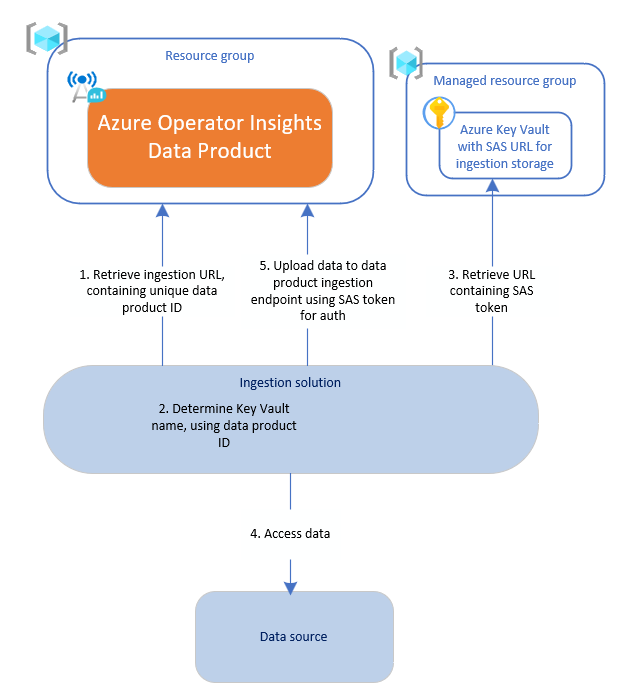
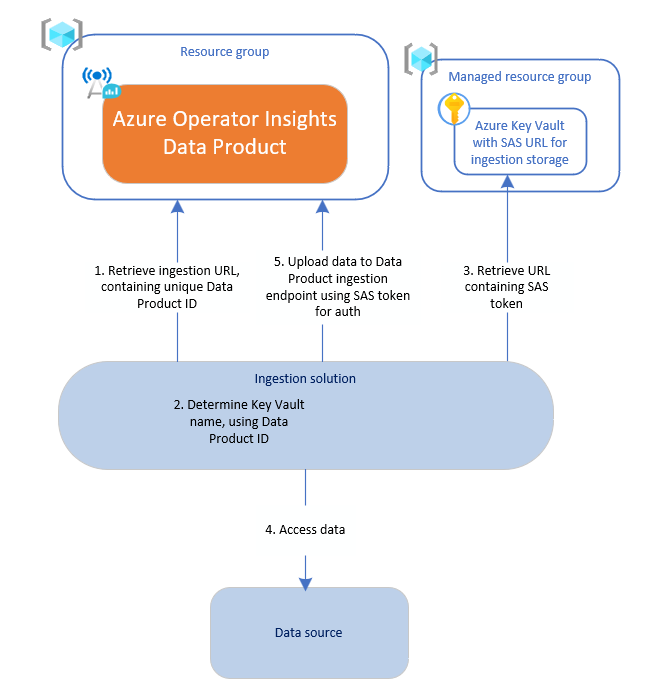
Capitalise Data Product

diff --git a/samples/end-to-end/python-aoi-ingestion.py b/samples/end-to-end/python-aoi-ingestion.py
@@ -2,7 +2,7 @@
 # Licensed under the MIT License.
 
 # This is an example Python script that demonstrates how to upload data to an Azure Operator Insights
-# data product using the Azure SDK.
+# Data Product using the Azure SDK.
 # https://learn.microsoft.com/en-us/azure/developer/python/sdk/azure-sdk-overview
 # To use the script, fill in the variables at the top of the script and run it from the command line.
 # e.g `python3.9 python-aoi-ingestion.py`
@@ -26,7 +26,7 @@ from azure.mgmt.networkanalytics import NetworkAnalyticsMgmtClient
 
 
 def main():
-    # Set variables for resource group, data product name, data type, and the local filepath of the files to upload.
+    # Set variables for resource group, Data Product name, data type, and the local filepath of the files to upload.
     # Replace these values with your own.
     resource_group = "myResourceGroup"
     data_product_name = "myDataProduct"
@@ -43,14 +43,14 @@ def main():
         resource_group, data_product_name
     ).properties.consumption_endpoints.ingestion_url
 
-    # Break out the data product ID from the ingestion URL.
+    # Break out the Data Product ID from the ingestion URL.
     # If the ingestion URL is "https://aoiingestiondp123abc.blob.core.windows.net", then the data
     # product ID is "dp123abc".
     data_product_id = ingestion_url.removeprefix("https://aoiingestion").removesuffix(
         ".blob.core.windows.net"
     )
 
-    # Use the data product ID to generate the URL of the managed key vault
+    # Use the Data Product ID to generate the URL of the managed key vault
     key_vault_url = f"https://aoi-{data_product_id}-kv.vault.azure.net/"
 
     # Fetch the SAS URL from the key vault using the Key Vault Secret client library, and extract the

diff --git a/INGESTION-OVERVIEW.md b/INGESTION-OVERVIEW.md
@@ -1,10 +1,10 @@
-# How to ingest data into an Azure Operator Insights data product
+# How to ingest data into an Azure Operator Insights Data Product
 
-Data ingestion is a crucial process for any data product. Whether you’re dealing with real-time streams or batch uploads, a well-designed ingestion solution ensures smooth data flow. Understanding the steps involved in designing an ingestion solution will allow you to easily adapt the code samples in this repository, or build your own ingestion solution from scratch.
+Data ingestion is a crucial process for any Data Product. Whether you’re dealing with real-time streams or batch uploads, a well-designed ingestion solution ensures smooth data flow. Understanding the steps involved in designing an ingestion solution will allow you to easily adapt the code samples in this repository, or build your own ingestion solution from scratch.
 
 In this article:
 
-- [Steps to implement ingestion for a data product](#steps-to-implement-ingestion-for-a-data-product)
+- [Steps to implement ingestion for a Data Product](#steps-to-implement-ingestion-for-a-data-product)
   - [Plan how to access the source data](#plan-how-to-access-the-source-data)
   - [Determine requirements for uploaded data](#determine-requirements-for-uploaded-data)
   - [Implement the upload code](#implement-the-upload-code)
@@ -13,7 +13,7 @@ In this article:
   - [Implement extra function](#implement-extra-function)
 - [Hints and tips](#hints-and-tips)
 
-## Steps to implement ingestion for a data product
+## Steps to implement ingestion for a Data Product
 
 ### Plan how to access the source data
 
@@ -29,13 +29,13 @@ Consider the following:
 
 ### Determine requirements for uploaded data
 
-For all data products, you must upload data to the correct Azure Storage Account container for the associated data type. The container name is usually the same as the data type name.
+For all Data Products, you must upload data to the correct Azure Storage Account container for the associated data type. The container name is usually the same as the data type name.
 
-In addition, depending on the data product, there might be specific requirements on the filepath or format of the data that you upload.
+In addition, depending on the Data Product, there might be specific requirements on the filepath or format of the data that you upload.
 
-Check the documentation for your data product to find out which container names to use, and whether any additional requirements apply to you.
+Check the documentation for your Data Product to find out which container names to use, and whether any additional requirements apply to you.
 
-If the ingestion solution does not meet these requirements, data won't be processed correctly by the data product.
+If the ingestion solution does not meet these requirements, data won't be processed correctly by the Data Product.
 
 ### Implement the upload code
 
@@ -45,30 +45,30 @@ Now you can write your end-to-end ingestion solution.
 
 Ingestion solutions perform 5 main steps:
 
-1. **Obtain the data product ingestion URL:** Query the data product resource to obtain the ingestion URL, which contains the unique ID for the data product. The URL format is `https://aoiingestiondp123abc.blob.core.windows.net` where `dp123abc` represents the data product ID.
-2. **Identify the managed Key Vault:** Determine the name of the managed Key Vault associated with the data product. It follows the pattern `aoi-<dataProductId>-kv`, where `<dataProductId>` corresponds to the ID from step 1.
-3. **Retrieve the ingestion SAS URL:** Query the Key Vault identified in step 2 to get the ingestion SAS URL for the data product. This URL is the data product's ingestion URL, with a SAS token appended. For example, `https://aoiingestiondp123abc.blob.core.windows.net?sv=2021-12-02&ss=b&srt=co&spr=https,http&st=2024-02-16T20%3A18%3A02Z&se=2024-05-16T20%3A17%3A57Z&sp=rwdl&sig=<REDACTED>`
+1. **Obtain the Data Product ingestion URL:** Query the Data Product resource to obtain the ingestion URL, which contains the unique ID for the Data Product. The URL format is `https://aoiingestiondp123abc.blob.core.windows.net` where `dp123abc` represents the Data Product ID.
+2. **Identify the managed Key Vault:** Determine the name of the managed Key Vault associated with the Data Product. It follows the pattern `aoi-<dataProductId>-kv`, where `<dataProductId>` corresponds to the ID from step 1.
+3. **Retrieve the ingestion SAS URL:** Query the Key Vault identified in step 2 to get the ingestion SAS URL for the Data Product. This URL is the Data Product's ingestion URL, with a SAS token appended. For example, `https://aoiingestiondp123abc.blob.core.windows.net?sv=2021-12-02&ss=b&srt=co&spr=https,http&st=2024-02-16T20%3A18%3A02Z&se=2024-05-16T20%3A17%3A57Z&sp=rwdl&sig=<REDACTED>`
 4. **Read from the data source:** Collect the data to upload, as you planned in [Plan how to access the source data](#plan-how-to-access-the-source-data).
-5. **Upload data to the ingestion endpoint:** Use the SAS token obtained in step 3 to authenticate. The ingestion endpoint is an Azure Storage Account, so most methods of uploading data to an Azure Storage Account will also work with the data product ingestion endpoint. Make sure to upload the data to the correct Azure Storage Account container for the data type.
+5. **Upload data to the ingestion endpoint:** Use the SAS token obtained in step 3 to authenticate. The ingestion endpoint is an Azure Storage Account, so most methods of uploading data to an Azure Storage Account will also work with the Data Product ingestion endpoint. Make sure to upload the data to the correct Azure Storage Account container for the data type.
 
 Steps 1-3 are setup steps which can be carried out once, then the SAS token can be reused for as long as it is valid.
 
 ### Handle SAS URL rotation
 
-The SAS token can be used until it is revoked or its expiry date has passed. When the SAS token is rotated, the data product automatically updates the value of the `input-storage-sas` secret in the managed Key Vault.
+The SAS token can be used until it is revoked or its expiry date has passed. When the SAS token is rotated, the Data Product automatically updates the value of the `input-storage-sas` secret in the managed Key Vault.
 
 To ensure uninterrupted service, your ingestion solution should frequently retrieve the input-storage-sas secret from the managed Key Vault. This ensures it always uses the latest SAS token. For example, fetch the secret at the start of scheduled upload runs or hourly for continuous ingestion solutions. If an authentication error occurs, re-fetch the secret, as it may indicate the old SAS token has been revoked.
 
 ### Test the ingestion solution
 
-Use your ingestion solution to upload sample data to the data product, and identify and fix any errors.
+Use your ingestion solution to upload sample data to the Data Product, and identify and fix any errors.
 
 Use [Data product resource logs](https://learn.microsoft.com/en-us/azure/operator-insights/monitor-operator-insights#resource-logs-for-data-products-overview-collection-and-analysis) to look for errors uploading the data to the ingestion storage account, and errors processing the data after it is uploaded.
 
-- Logs related to upload of data to the data product are in the `AOIStorage` table, with categories `Ingestion` and `IngestionDelete`.
+- Logs related to upload of data to the Data Product are in the `AOIStorage` table, with categories `Ingestion` and `IngestionDelete`.
 - Logs related to processing of uploaded data are in the `AOIDigestion` table, with category `Digestion`.
 
-Once data has been successfully uploaded and processed, you can [explore the data using the data product's consumption URL](https://learn.microsoft.com/en-us/azure/operator-insights/data-query).
+Once data has been successfully uploaded and processed, you can [explore the data using the Data Product's consumption URL](https://learn.microsoft.com/en-us/azure/operator-insights/data-query).
 
 ### Implement extra function
 
@@ -77,18 +77,18 @@ Once your basic ingestion solution is working, you can implement extra function 
 For example:
 
 - Add logging and metrics so you can monitor the performance of the ingestion solution and debug issues.
-- Add retries in case of transient connection errors between the ingestion solution and the data source, or the data product.
-- Optionally, filter data before uploading to the data product.
-- Optionally, transform data before uploading to the data product, e.g. to remove personally identifiable information (PII).
+- Add retries in case of transient connection errors between the ingestion solution and the data source, or the Data Product.
+- Optionally, filter data before uploading to the Data Product.
+- Optionally, transform data before uploading to the Data Product, e.g. to remove personally identifiable information (PII).
 
 ## Hints and tips
 
-- **File modification:** Avoid modifying or moving uploaded files (blobs) after they have been uploaded to the data product. The data product processes the initial version of the blob on upload, and changes in subsequent versions might not be processed, leading to missing data. If you move or rename a blob post-upload, it's treated as a new blob, which can result in duplicated data.
+- **File modification:** Avoid modifying or moving uploaded files (blobs) after they have been uploaded to the Data Product. The Data Product processes the initial version of the blob on upload, and changes in subsequent versions might not be processed, leading to missing data. If you move or rename a blob post-upload, it's treated as a new blob, which can result in duplicated data.
 
 - **Directory depth:** When uploading data files, ensure they are at least two directories deep within the ingestion storage account. For example, if you're uploading a file called `mydata.csv`, place it in a path like `{directory-name}/{sub-directory-name}/mydata.csv`.
 
 - **Blob storage vs data lake ingestion endpoints:**
-  - You have two options for the data product ingestion URL: one for the blob storage endpoint (e.g. `https://aoiingestiondp123abc.blob.core.windows.net`), and one for the data lake storage endpoint (e.g. `https://aoiingestiondp123abc.dfs.core.windows.net`).
+  - You have two options for the Data Product ingestion URL: one for the blob storage endpoint (e.g. `https://aoiingestiondp123abc.blob.core.windows.net`), and one for the data lake storage endpoint (e.g. `https://aoiingestiondp123abc.dfs.core.windows.net`).
   - Choose the endpoint that best suits your ingestion method. For example, AzCopy can use the blob storage endpoint, but Azure Databricks requires the data lake endpoint. To obtain the data lake endpoint URL, simply replace `blob` in the ingestion URL with `dfs`.
   - Use the appropriate API calls for the endpoint you have chosen:
     - [Azure Blob Storage REST API](https://learn.microsoft.com/en-us/rest/api/storageservices/blob-service-rest-api).

diff --git a/README.md b/README.md
@@ -1,15 +1,15 @@
 # Azure Operator Insights data ingestion samples
 
-Code samples and guidance demonstrating how to ingest data into an [Azure Operator Insights data product](https://learn.microsoft.com/en-us/azure/operator-insights/).
+Code samples and guidance demonstrating how to ingest data into an [Azure Operator Insights Data Product](https://learn.microsoft.com/en-us/azure/operator-insights/).
 
-Azure Operator Insights offers a range of options for ingesting data into data products:
+Azure Operator Insights offers a range of options for ingesting data into Data Products:
 
-- The [Azure Operator Insights Ingestion Agent](https://learn.microsoft.com/en-us/azure/operator-insights/ingestion-agent-overview), which runs on-prem or on an Azure VM. The agent can consume data from different sources and upload the data to an Azure Operator Insights data product. The agent currently supports ingestion by:
+- The [Azure Operator Insights Ingestion Agent](https://learn.microsoft.com/en-us/azure/operator-insights/ingestion-agent-overview), which runs on-prem or on an Azure VM. The agent can consume data from different sources and upload the data to an Azure Operator Insights Data Product. The agent currently supports ingestion by:
   - Pulling data from an SFTP server
   - Terminating a TCP stream of enhanced data records (EDRs) from the Affirmed MCC.
-- Other Azure services and tools. A variety of tools can be used to upload data to an Azure Operator Insights data product. For example:
+- Other Azure services and tools. A variety of tools can be used to upload data to an Azure Operator Insights Data Product. For example:
   - AzCopy is a simple tool for uploading batches of data from a variety of local or cloud storage locations.
-  - Azure Data Factory allows you to define more complicated pipelines to process the data before uploading to the data product.  (\<TODO insert Learn link when published>)
+  - Azure Data Factory allows you to define more complicated pipelines to process the data before uploading to the Data Product.  (\<TODO insert Learn link when published>)
 - Build your own ingestion, using the code samples in this repository as a starting point.
 
 ## Getting Started
@@ -22,8 +22,8 @@ For most of the samples, you need:
 
 - An Azure Operator Insights Data Product
 - A Microsoft Entra identity to use to run the sample. The identity must have the following roles:
-  - _Reader_ role on your data product
-  - _Key Vault Secrets User_ role on the managed key vault associated with your data product.
+  - _Reader_ role on your Data Product
+  - _Key Vault Secrets User_ role on the managed key vault associated with your Data Product.
 
 Some samples have different prerequisites, which are listed in the code or README files for each sample (e.g. for [Azure Databricks](samples/end-to-end/azure-databricks/README.md)).
 
@@ -31,11 +31,11 @@ Some samples have different prerequisites, which are listed in the code or READM
 
 1. `git clone https://github.com/Azure-Samples/operator-insights-data-ingestion.git`
 2. `cd operator-insights-data-ingestion/samples`
-3. Choose a sample, update the required parameters to work with your data product and data source, and run the sample.
+3. Choose a sample, update the required parameters to work with your Data Product and data source, and run the sample.
 
 ### Next steps
 
-The samples in this repository demonstrate how to implement basic ingestion into a data product, and they are provided for prototyping and educational purposes only.
+The samples in this repository demonstrate how to implement basic ingestion into a Data Product, and they are provided for prototyping and educational purposes only.
 
 Before using these samples as part of a production system, you should consider what additional logging, security, performance and resilience you need to add to make the code suitable for production use.
 
@@ -52,9 +52,9 @@ Before using these samples as part of a production system, you should consider w
 
 Most end-to-end samples follow three steps:
 
-1. Find the name of the managed key vault associated with the data product, by querying the data product to find the data product's unique ID
-2. Authenticate with the managed key vault and fetch the secret containing the ingestion SAS URL for the data product.
-3. Using the ingestion URL/storage account name and ingestion SAS token, upload data to the ingestion endpoint of the data product.
+1. Find the name of the managed key vault associated with the Data Product, by querying the Data Product to find the Data Product's unique ID
+2. Authenticate with the managed key vault and fetch the secret containing the ingestion SAS URL for the Data Product.
+3. Using the ingestion URL/storage account name and ingestion SAS token, upload data to the ingestion endpoint of the Data Product.
 
 ### Sample snippets
 
@@ -64,17 +64,17 @@ Most end-to-end samples follow three steps:
 
 Most samples require the same parameters:
 
-- `resourceGroup`: the resource group where the data product is deployed
-- `dataProductName`: the name of the data product to upload data to
-- `dataType`: the data type name for the data to upload, e.g. `edr` or `pmstat`. The valid data types for a data product are listed on the _Data Management > Data types_ pane of the Azure Portal for the data product.
-- `sourceDataFilePath`: the path to a local directory containing the files you want to upload to the data product
+- `resourceGroup`: the resource group where the Data Product is deployed
+- `dataProductName`: the name of the Data Product to upload data to
+- `dataType`: the data type name for the data to upload, e.g. `edr` or `pmstat`. The valid data types for a Data Product are listed on the _Data Management > Data types_ pane of the Azure Portal for the Data Product.
+- `sourceDataFilePath`: the path to a local directory containing the files you want to upload to the Data Product
 
-All samples must authenticate with the managed key vault that is associated with the data product. This authentication is handled differently depending on the sample.
+All samples must authenticate with the managed key vault that is associated with the Data Product. This authentication is handled differently depending on the sample.
 
 ## Resources
 
 - To learn about Azure Operator Insights, visit [Azure Operator Insights documentation](https://learn.microsoft.com/en-us/azure/operator-insights/).
 - To ingest EDRs from an Affirmed MCC, or to ingest files from an SFTP server, you can use the [Azure Operator Insights Ingestion Agent](https://learn.microsoft.com/en-us/azure/operator-insights/ingestion-agent-overview).
 - For details of the Azure Operator Insights (network-analytics) Azure CLI extension, see [Azure CLI reference: az network-analytics](https://learn.microsoft.com/en-us/cli/azure/network-analytics?view=azure-cli-latest).
-- For guidance on using AzCopy to copy files to an Azure Storage Account (including Azure Operator Insights data product ingestion storage), see [Get started with AzCopy](https://learn.microsoft.com/en-us/azure/storage/common/storage-use-azcopy-v10).
-- To learn more about developing your own Azure Operator Insights data product, visit [Azure Operator Insights data product factory](https://learn.microsoft.com/en-us/azure/operator-insights/data-product-factory).
+- For guidance on using AzCopy to copy files to an Azure Storage Account (including Azure Operator Insights Data Product ingestion storage), see [Get started with AzCopy](https://learn.microsoft.com/en-us/azure/storage/common/storage-use-azcopy-v10).
+- To learn more about developing your own Azure Operator Insights Data Product, visit [Azure Operator Insights Data Product factory](https://learn.microsoft.com/en-us/azure/operator-insights/data-product-factory).

diff --git a/samples/end-to-end/azure-databricks/README.md b/samples/end-to-end/azure-databricks/README.md
@@ -2,7 +2,7 @@
 
 ## When to use Azure Databricks to ingest in to Azure Operator Insights
 
-Azure Databricks provides a convenient solution for ingesting from a variety of data sources directly in to an [Azure Operator Insights data product](https://learn.microsoft.com/en-us/azure/operator-insights/).
+Azure Databricks provides a convenient solution for ingesting from a variety of data sources directly in to an [Azure Operator Insights Data Product](https://learn.microsoft.com/en-us/azure/operator-insights/).
 
 Using Databricks is recommended if:
 
@@ -11,7 +11,7 @@ Using Databricks is recommended if:
 - You require continuous ingestion
 - The data you would like to ingest contains a transaction log (E.g. Delta file format)
   - In this scenario, your databricks ingestion workflow can convert to a file format that Azure Operator Insights supports
-- You wish to apply transformations or filtering to your data before it is ingested to your data product
+- You wish to apply transformations or filtering to your data before it is ingested to your Data Product
 
 ## Ingestion sample notebook
 
@@ -59,9 +59,9 @@ After the secret scope is created, _copy the SAS URL from the Data Product's Key
 
 #### How to copy the ingestion SAS URL to the 'Access policy' Key Vault
 
-  1. Find the resource group which contains the managed Key Vault for the data product. This Key Vault contains the SAS URL for ingesting files in to Azure Operator Insights.
+  1. Find the resource group which contains the managed Key Vault for the Data Product. This Key Vault contains the SAS URL for ingesting files in to Azure Operator Insights.
       - The resource group has a naming convention of `<data-product-name>-HostedResources-<unique-hex-string>`
-      - This can be found in the Azure portal by searching for your data product name
+      - This can be found in the Azure portal by searching for your Data Product name
   1. Open the managed Key Vault within the resource group and navigate to the `Secrets` tab
       - The Key Vault has a naming convention of `aoi-dp<unique-id>-kv`
   1. Find the secret named `input-storage-sas`
